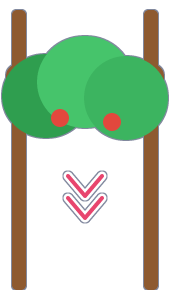
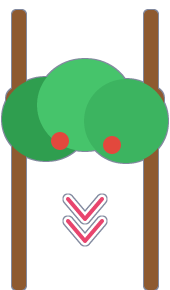
A fifth smaller cat, with what aims at its height lowered to match
The cat plays at scale 0.58 (was 0.72): it stands about 113 tall (was 140) and slides at about 73
(was 90). So the game plays the same:
- overhead boards (scaffold, washing line, banner, branch, farm sign) hang 23px lower, art and
  hitbox, so their low edge is 97 above the road (was 120)
- the swinging crate's high point is 97 (was 120), leaping dogs leap 109 (was 135), the low bird
  and pigeons fly at 79 and 74 (were 100 and 96), and the Gunner's high shots fly at 98 (was 122)
- the Super Paw box floats at 358 (was 385), still just out of one jump's reach
The high bird stays at 160: it's there to hit a jumping cat, and jumps are unchanged.

Changed region(s): [[0.0, 0.0931, 1.0, 0.5897], [0.3529, 0.5897, 0.6471, 0.869]]

diff --git a/src/data/obstacles.js b/src/data/obstacles.js
@@ -108,19 +108,19 @@ export const OBSTACLES = {
   scaffold: {
     texture: 'scaffold',
     avoid: 'slide',
-    hitbox: { x: 20, y: 40, w: 130, h: 122 },
+    hitbox: { x: 20, y: 63, w: 130, h: 122 },
     penalty: HEAVY_HIT,
   },
   washingLine: {
     texture: 'washing-line',
     avoid: 'slide',
-    hitbox: { x: 14, y: 40, w: 142, h: 122 },
+    hitbox: { x: 14, y: 63, w: 142, h: 122 },
     penalty: STANDARD_HIT,
   },
   banner: {
     texture: 'banner',
     avoid: 'slide',
-    hitbox: { x: 14, y: 40, w: 142, h: 122 },
+    hitbox: { x: 14, y: 63, w: 142, h: 122 },
     penalty: STANDARD_HIT,
   },
 
@@ -154,7 +154,7 @@ export const OBSTACLES = {
       warnIcon: 'warn-slide',
       sound: 'bark',
       hop: { height: 34, seconds: 0.42 },
-      leap: { height: 135, seconds: 0.85 },
+      leap: { height: 109, seconds: 0.85 },
     },
   },
 
@@ -172,7 +172,7 @@ export const OBSTACLES = {
       warnIcon: 'warn-slide',
       sound: 'bark',
       hideIn: 'bin',
-      leap: { height: 135, seconds: 0.85 },
+      leap: { height: 109, seconds: 0.85 },
     },
   },
 
@@ -206,7 +206,7 @@ export const OBSTACLES = {
       anim: 'fly',
       warnIcon: 'warn-slide',
       sound: 'caw',
-      flyHeight: 96,
+      flyHeight: 74,
       bob: { height: 3, seconds: 0.5 },
     },
   },
@@ -224,7 +224,7 @@ export const OBSTACLES = {
       anim: 'fly',
       warnIcon: 'warn-slide',
       sound: 'caw',
-      flyHeight: 100,
+      flyHeight: 79,
       bob: { height: 4, seconds: 0.5 },
     },
   },
@@ -242,7 +242,7 @@ export const OBSTACLES = {
       anim: 'fly',
       warnIcon: 'warn-stay',
       sound: 'caw',
-      flyHeight: 160,
+      flyHeight: 160, // high enough to clear a standing cat, low enough to hit a jumping one
       bob: { height: 6, seconds: 0.5 },
     },
   },
@@ -274,7 +274,7 @@ export const OBSTACLES = {
     motion: {
       kind: 'swing',
       period: 2.6,
-      maxHeight: 120,
+      maxHeight: 97,
       moves: { low: 'jump', high: 'slide' },
     },
   },

diff --git a/src/data/pickups.js b/src/data/pickups.js
@@ -1,10 +1,11 @@
 // Power-ups placed in levels. `height` is how far above the ground the box's lower edge floats.
-// At 385 it is just above the reach of one jump, so it takes a double jump or a bin bounce.
+// At 358 it is just above the reach of one jump (a cat's head gets to about 343), so it takes a double
+// jump or a bin bounce.
 
 export const PICKUPS = {
   superPaw: {
     texture: 'paw-box',
-    height: 385,
+    height: 358,
   },
   // Low enough to collect with one jump. See CATNIP below.
   catnip: {
@@ -15,8 +16,8 @@ export const PICKUPS = {
 
 // Paw-print blocks float just over a running cat's head. Jumping into one from below bumps out its
 // reward: treats, which count toward the level's stars, or a Super Paw.
-// `height` is where the block's lower edge is. A running cat is about 140 tall, and one jump lifts
-// its head to about 370, so a jump from under it always reaches.
+// `height` is where the block's lower edge is. A running cat is about 113 tall, and one jump lifts
+// its head to about 343, so a jump from under it always reaches.
 export const PAW_BLOCK = {
   height: 250,
   size: 64,

diff --git a/src/scenes/GameScene.js b/src/scenes/GameScene.js
@@ -131,7 +131,7 @@ export class GameScene extends Phaser.Scene {
     this.bossFight = level.boss ? new BossFight(this, level.boss) : null;
     this.finalDashDone = false;
     this.chaser = new Chaser(this, startX - this.tracker.gap, this.chase.chaser.character);
-    this.catShadow = this.add.ellipse(0, GAME.GROUND_Y + 4, 120, 18, 0x1d1a44, 0.35).setDepth(3);
+    this.catShadow = this.add.ellipse(0, GAME.GROUND_Y + 4, 96, 15, 0x1d1a44, 0.35).setDepth(3);
     this.chaserShadow = this.add.ellipse(0, GAME.GROUND_Y + 4, 140, 20, 0x1d1a44, 0.35).setDepth(3);
     this.followers = this.chase.followers.map((id) => new Chaser(this, startX - this.tracker.gap, CHASERS[id].character));
     for (const sound of ['jump', 'slide', 'land', 'doubleJump', 'dive', 'bounce']) {

diff --git a/src/entities/GunnerBoss.js b/src/entities/GunnerBoss.js
@@ -8,8 +8,8 @@ import { outline } from '../ui/Outline.js';
 const MUZZLE_AHEAD = 89;
 const MUZZLE_HEIGHT = 45;
 // The heights shots fly at, measured to their middle. Low ones are jumped, and high ones are slid
-// under: a running cat is about 140 tall, and a sliding one about 90.
-const LANE_HEIGHT = { low: MUZZLE_HEIGHT, high: 122 };
+// under: a running cat is about 113 tall, and a sliding one about 73.
+const LANE_HEIGHT = { low: MUZZLE_HEIGHT, high: 98 };
 const SHOT = { w: 30, h: 12, hitW: 22, hitH: 12 };
 const RISE_DISTANCE = 140; // high shots climb from his gun to their lane over this distance
 const AIM_UP_ANGLE = 8;

diff --git a/src/data/characters.js b/src/data/characters.js
@@ -89,7 +89,9 @@ export const CHARACTERS = {
 
   cat: {
     folder: 'cat',
-    scale: 0.72,
+    // A fifth smaller than at first (0.72). Everything aimed at its height (overhead boards, birds,
+    // leaping dogs, the swinging crate, the Gunner's high shots) was lowered to match.
+    scale: 0.58,
     face: { x: 50, y: 8, size: 146 },
     anims: {
       idle: { file: 'idle', frames: 10, fps: 12, repeat: -1 },
